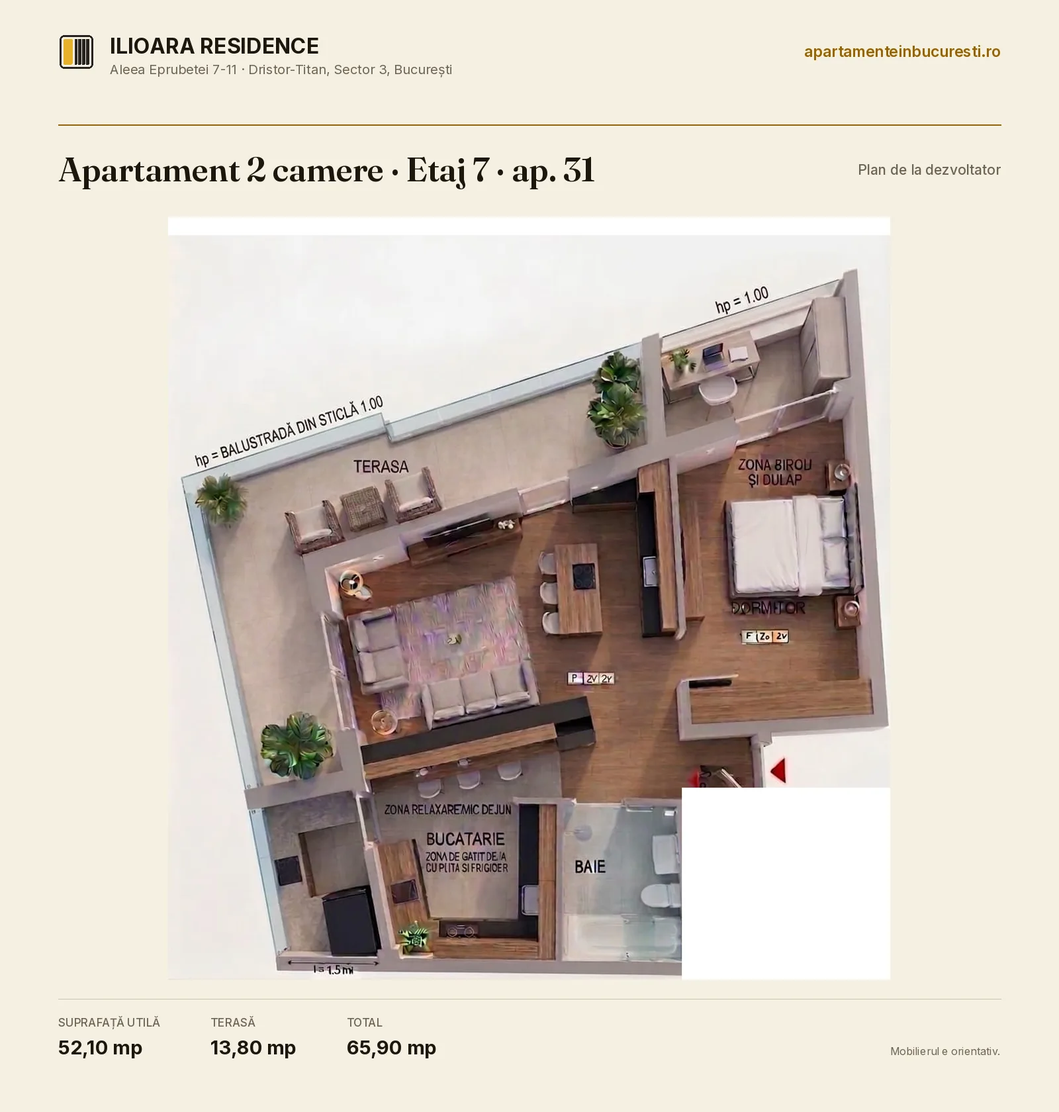
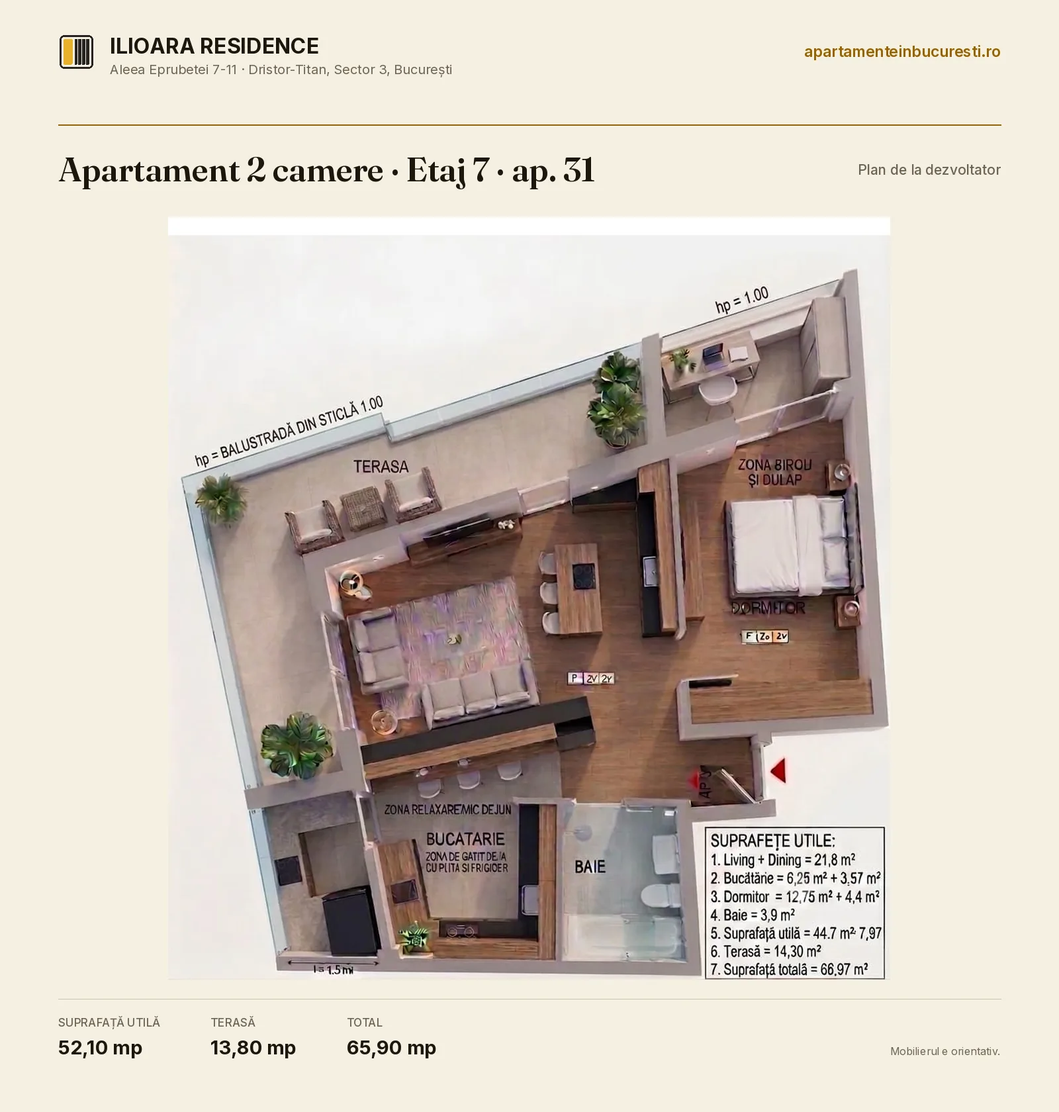
ap. 31 intreg, cu caseta dezvoltatorului lasata pe desen si diferenta explicata
Caseta lui de suprafete de pe randarea ap. 31 sta PESTE peretele baii, nu langa el.
Masurata pe grila: incepe la x 0,74 si acopera coltul din dreapta jos al desenului.
Orice masca acolo taie baia, deci ramane pe imagine.

Consecinta e o cifra vizibila care nu se potriveste: randarea scrie 66,97 mp total,
lista de preturi din iunie zice 65,90. In loc sa o ascund, o explic pe pagina, in 5 limbi:
"Randarea dezvoltatorului arata 66,97 mp total, dintr-o faza anterioara a proiectului.
Cifra pe care o vindem, 65,90 mp, e cea din lista lui de preturi din iunie 2026."

Corectate si titlurile pe ap. 28, 30, 31: aveau inca "Planul etajului 7 / apartamentul e
marcat AP.NN", de cand toate patru foloseau plansa CAD. Acum au randare proprie, deci
"Planul apartamentului". Doar ap. 29 mai sta pe plansa etajului. 15 pagini.

Claude-Session: https://claude.ai/code/session_01L1B55aKnmJNQfi41fCw1wB

Changed region(s): [[0.625, 0.681, 0.8438, 0.8976]]

diff --git a/uk/apartamente/apartament-2-camere-etaj-7-ap-31/index.html b/uk/apartamente/apartament-2-camere-etaj-7-ap-31/index.html
@@ -152,10 +152,10 @@ body.mn-open .mn-x{opacity:1;visibility:visible;transition:opacity .4s ease .15s
 </ul>
 
 
-<h2 class="rv" data-fx="slide">План сьомого поверху</h2>
+<h2 class="rv" data-fx="slide">План квартири</h2>
 <figure class="plan rv" data-fx="rise">
   <a href="/planuri/plan-ap-31-en-v2.webp" target="_blank" rel="noopener"><img src="/planuri/plan-ap-31-en-v2.webp" width="1600" height="1680" alt="План квартири 31, 2 кімнати, поверх 7, Ilioara Residence, Aleea Eprubetei 7-11" loading="lazy" decoding="async"></a>
-  <figcaption>План сьомого поверху, від забудовника. Квартиру позначено <b>AP.31</b>. Корисна площа <b>52,10 м²</b>, тераса <b>13,80 м²</b>, разом <b>65,90 м²</b>. Меблі показано умовно.<br><a class="lupa" href="/planuri/plan-ap-31-en-v2.webp" target="_blank" rel="noopener">Відкрити план у повному розмірі &rarr;</a></figcaption>
+  <figcaption>План від забудовника. Корисна площа <b>52,10 м²</b>, тераса <b>13,80 м²</b>, разом <b>65,90 м²</b>. Меблі показано умовно. Рендер забудовника показує <b>66,97 м²</b> разом, з попереднього етапу проєкту. Цифра, за якою продаємо, <b>65,90 м²</b>, узята з його переліку цін від червня 2026.<br><a class="lupa" href="/planuri/plan-ap-31-en-v2.webp" target="_blank" rel="noopener">Відкрити план у повному розмірі &rarr;</a></figcaption>
 </figure>
 <h2 class="rv" data-fx="blur">Повний перелік оздоблення — саме таким, яким квартиру передають</h2>
 <p class="pblock rv" data-fx="rise">Так виглядає квартира на момент передачі. Марки — ті, що зазначені в технічній специфікації забудовника; там, де написано «або аналогічний», це означає, що може бути поставлений рівноцінний виріб того самого класу.</p>

diff --git a/ar/apartamente/apartament-2-camere-etaj-7-ap-31/index.html b/ar/apartamente/apartament-2-camere-etaj-7-ap-31/index.html
@@ -163,10 +163,10 @@ html[dir="rtl"] .rv[data-fx="slide"]{transform:translateX(26px)}
 </ul>
 
 
-<h2 class="rv" data-fx="slide">مخطط الطابق السابع</h2>
+<h2 class="rv" data-fx="slide">مخطط الشقة</h2>
 <figure class="plan rv" data-fx="rise">
   <a href="/planuri/plan-ap-31-en-v2.webp" target="_blank" rel="noopener"><img src="/planuri/plan-ap-31-en-v2.webp" width="1600" height="1680" alt="مخطط الشقة 31، 2 غرف، الطابق 7، Ilioara Residence، Aleea Eprubetei 7-11" loading="lazy" decoding="async"></a>
-  <figcaption>مخطط الطابق السابع، من المطوّر. الشقة مُعلَّمة <b>AP.31</b>. المساحة المفيدة <b>52,10 م²</b>، الشرفة <b>13,80 م²</b>، الإجمالي <b>65,90 م²</b>. الأثاث للتوضيح فقط.<br><a class="lupa" href="/planuri/plan-ap-31-en-v2.webp" target="_blank" rel="noopener">افتح المخطط بالحجم الكامل &rarr;</a></figcaption>
+  <figcaption>مخطط من المطوّر. المساحة المفيدة <b>52,10 م²</b>، الشرفة <b>13,80 م²</b>، الإجمالي <b>65,90 م²</b>. الأثاث للتوضيح فقط. يُظهر مخطط المطوّر <b>66.97 م²</b> إجمالاً، من مرحلة سابقة من المشروع. الرقم الذي نبيع على أساسه، <b>65.90 م²</b>، مأخوذ من قائمة أسعاره لشهر يونيو 2026.<br><a class="lupa" href="/planuri/plan-ap-31-en-v2.webp" target="_blank" rel="noopener">افتح المخطط بالحجم الكامل &rarr;</a></figcaption>
 </figure>
 <h2 class="rv" data-fx="blur">قائمة التشطيبات الكاملة، تماماً كما تُسلَّم</h2>
 <p class="pblock rv" data-fx="rise">هكذا تبدو الشقة عند التسليم. العلامات التجارية هي الواردة في دفتر شروط المطوّر؛ وحيثما ورد «أو ما يماثله» فهذا يعني أنه يمكن تسليم منتج مكافئ من الفئة نفسها.</p>

diff --git a/uk/apartamente/apartament-2-camere-etaj-7-ap-28/index.html b/uk/apartamente/apartament-2-camere-etaj-7-ap-28/index.html
@@ -152,10 +152,10 @@ body.mn-open .mn-x{opacity:1;visibility:visible;transition:opacity .4s ease .15s
 </ul>
 
 
-<h2 class="rv" data-fx="slide">План сьомого поверху</h2>
+<h2 class="rv" data-fx="slide">План квартири</h2>
 <figure class="plan rv" data-fx="rise">
   <a href="/planuri/plan-ap-28-en-v2.webp" target="_blank" rel="noopener"><img src="/planuri/plan-ap-28-en-v2.webp" width="1600" height="1680" alt="План квартири 28, 2 кімнати, поверх 7, Ilioara Residence, Aleea Eprubetei 7-11" loading="lazy" decoding="async"></a>
-  <figcaption>План сьомого поверху, від забудовника. Квартиру позначено <b>AP.28</b>. Корисна площа <b>56,75 м²</b>, тераса <b>14,35 м²</b>, разом <b>71,10 м²</b>. Меблі показано умовно.<br><a class="lupa" href="/planuri/plan-ap-28-en-v2.webp" target="_blank" rel="noopener">Відкрити план у повному розмірі &rarr;</a></figcaption>
+  <figcaption>План від забудовника. Корисна площа <b>56,75 м²</b>, тераса <b>14,35 м²</b>, разом <b>71,10 м²</b>. Меблі показано умовно.<br><a class="lupa" href="/planuri/plan-ap-28-en-v2.webp" target="_blank" rel="noopener">Відкрити план у повному розмірі &rarr;</a></figcaption>
 </figure>
 <h2 class="rv" data-fx="blur">Повний перелік оздоблення — саме таким, яким квартиру передають</h2>
 <p class="pblock rv" data-fx="rise">Так виглядає квартира на момент передачі. Марки — ті, що зазначені в технічній специфікації забудовника; там, де написано «або аналогічний», це означає, що може бути поставлений рівноцінний виріб того самого класу.</p>

diff --git a/uk/apartamente/apartament-2-camere-etaj-7-ap-30/index.html b/uk/apartamente/apartament-2-camere-etaj-7-ap-30/index.html
@@ -152,10 +152,10 @@ body.mn-open .mn-x{opacity:1;visibility:visible;transition:opacity .4s ease .15s
 </ul>
 
 
-<h2 class="rv" data-fx="slide">План сьомого поверху</h2>
+<h2 class="rv" data-fx="slide">План квартири</h2>
 <figure class="plan rv" data-fx="rise">
   <a href="/planuri/plan-ap-30-en-v2.webp" target="_blank" rel="noopener"><img src="/planuri/plan-ap-30-en-v2.webp" width="1600" height="1483" alt="План квартири 30, 2 кімнати, поверх 7, Ilioara Residence, Aleea Eprubetei 7-11" loading="lazy" decoding="async"></a>
-  <figcaption>План сьомого поверху, від забудовника. Квартиру позначено <b>AP.30</b>. Корисна площа <b>59,50 м²</b>, тераса <b>7,25 м²</b>, разом <b>66,75 м²</b>. Меблі показано умовно.<br><a class="lupa" href="/planuri/plan-ap-30-en-v2.webp" target="_blank" rel="noopener">Відкрити план у повному розмірі &rarr;</a></figcaption>
+  <figcaption>План від забудовника. Корисна площа <b>59,50 м²</b>, тераса <b>7,25 м²</b>, разом <b>66,75 м²</b>. Меблі показано умовно.<br><a class="lupa" href="/planuri/plan-ap-30-en-v2.webp" target="_blank" rel="noopener">Відкрити план у повному розмірі &rarr;</a></figcaption>
 </figure>
 <h2 class="rv" data-fx="blur">Повний перелік оздоблення — саме таким, яким квартиру передають</h2>
 <p class="pblock rv" data-fx="rise">Так виглядає квартира на момент передачі. Марки — ті, що зазначені в технічній специфікації забудовника; там, де написано «або аналогічний», це означає, що може бути поставлений рівноцінний виріб того самого класу.</p>

diff --git a/he/apartamente/apartament-2-camere-etaj-7-ap-31/index.html b/he/apartamente/apartament-2-camere-etaj-7-ap-31/index.html
@@ -163,10 +163,10 @@ html[dir="rtl"] .rv[data-fx="slide"]{transform:translateX(26px)}
 </ul>
 
 
-<h2 class="rv" data-fx="slide">תוכנית הקומה השביעית</h2>
+<h2 class="rv" data-fx="slide">תוכנית הדירה</h2>
 <figure class="plan rv" data-fx="rise">
   <a href="/planuri/plan-ap-31-en-v2.webp" target="_blank" rel="noopener"><img src="/planuri/plan-ap-31-en-v2.webp" width="1600" height="1680" alt="תוכנית דירה 31, 2 חדרים, קומה 7, Ilioara Residence, Aleea Eprubetei 7-11" loading="lazy" decoding="async"></a>
-  <figcaption>תוכנית הקומה השביעית, מהיזם. הדירה מסומנת <b>AP.31</b>. שטח מועיל <b>52,10 מ״ר</b>, מרפסת <b>13,80 מ״ר</b>, סך הכול <b>65,90 מ״ר</b>. הריהוט להמחשה בלבד.<br><a class="lupa" href="/planuri/plan-ap-31-en-v2.webp" target="_blank" rel="noopener">פתחו את התוכנית בגודל מלא &rarr;</a></figcaption>
+  <figcaption>תוכנית מהיזם. שטח מועיל <b>52,10 מ״ר</b>, מרפסת <b>13,80 מ״ר</b>, סך הכול <b>65,90 מ״ר</b>. הריהוט להמחשה בלבד. הרנדר של היזם מציג <b>66.97 מ״ר</b> בסך הכול, משלב מוקדם יותר של הפרויקט. הנתון שלפיו אנחנו מוכרים, <b>65.90 מ״ר</b>, לקוח ממחירון יוני 2026 שלו.<br><a class="lupa" href="/planuri/plan-ap-31-en-v2.webp" target="_blank" rel="noopener">פתחו את התוכנית בגודל מלא &rarr;</a></figcaption>
 </figure>
 <h2 class="rv" data-fx="blur">רשימת הגימורים המלאה, בדיוק כפי שהדירה נמסרת</h2>
 <p class="pblock rv" data-fx="rise">כך נראית הדירה במסירה. המותגים הם אלה שמופיעים במפרט הטכני של היזם; היכן שכתוב “או דומה” הכוונה שאפשר לספק מוצר שווה ערך מאותה רמה.</p>

diff --git a/ar/apartamente/apartament-2-camere-etaj-7-ap-28/index.html b/ar/apartamente/apartament-2-camere-etaj-7-ap-28/index.html
@@ -163,10 +163,10 @@ html[dir="rtl"] .rv[data-fx="slide"]{transform:translateX(26px)}
 </ul>
 
 
-<h2 class="rv" data-fx="slide">مخطط الطابق السابع</h2>
+<h2 class="rv" data-fx="slide">مخطط الشقة</h2>
 <figure class="plan rv" data-fx="rise">
   <a href="/planuri/plan-ap-28-en-v2.webp" target="_blank" rel="noopener"><img src="/planuri/plan-ap-28-en-v2.webp" width="1600" height="1680" alt="مخطط الشقة 28، 2 غرف، الطابق 7، Ilioara Residence، Aleea Eprubetei 7-11" loading="lazy" decoding="async"></a>
-  <figcaption>مخطط الطابق السابع، من المطوّر. الشقة مُعلَّمة <b>AP.28</b>. المساحة المفيدة <b>56,75 م²</b>، الشرفة <b>14,35 م²</b>، الإجمالي <b>71,10 م²</b>. الأثاث للتوضيح فقط.<br><a class="lupa" href="/planuri/plan-ap-28-en-v2.webp" target="_blank" rel="noopener">افتح المخطط بالحجم الكامل &rarr;</a></figcaption>
+  <figcaption>مخطط من المطوّر. المساحة المفيدة <b>56,75 م²</b>، الشرفة <b>14,35 م²</b>، الإجمالي <b>71,10 م²</b>. الأثاث للتوضيح فقط.<br><a class="lupa" href="/planuri/plan-ap-28-en-v2.webp" target="_blank" rel="noopener">افتح المخطط بالحجم الكامل &rarr;</a></figcaption>
 </figure>
 <h2 class="rv" data-fx="blur">قائمة التشطيبات الكاملة، تماماً كما تُسلَّم</h2>
 <p class="pblock rv" data-fx="rise">هكذا تبدو الشقة عند التسليم. العلامات التجارية هي الواردة في دفتر شروط المطوّر؛ وحيثما ورد «أو ما يماثله» فهذا يعني أنه يمكن تسليم منتج مكافئ من الفئة نفسها.</p>

diff --git a/ar/apartamente/apartament-2-camere-etaj-7-ap-30/index.html b/ar/apartamente/apartament-2-camere-etaj-7-ap-30/index.html
@@ -163,10 +163,10 @@ html[dir="rtl"] .rv[data-fx="slide"]{transform:translateX(26px)}
 </ul>
 
 
-<h2 class="rv" data-fx="slide">مخطط الطابق السابع</h2>
+<h2 class="rv" data-fx="slide">مخطط الشقة</h2>
 <figure class="plan rv" data-fx="rise">
   <a href="/planuri/plan-ap-30-en-v2.webp" target="_blank" rel="noopener"><img src="/planuri/plan-ap-30-en-v2.webp" width="1600" height="1483" alt="مخطط الشقة 30، 2 غرف، الطابق 7، Ilioara Residence، Aleea Eprubetei 7-11" loading="lazy" decoding="async"></a>
-  <figcaption>مخطط الطابق السابع، من المطوّر. الشقة مُعلَّمة <b>AP.30</b>. المساحة المفيدة <b>59,50 م²</b>، الشرفة <b>7,25 م²</b>، الإجمالي <b>66,75 م²</b>. الأثاث للتوضيح فقط.<br><a class="lupa" href="/planuri/plan-ap-30-en-v2.webp" target="_blank" rel="noopener">افتح المخطط بالحجم الكامل &rarr;</a></figcaption>
+  <figcaption>مخطط من المطوّر. المساحة المفيدة <b>59,50 م²</b>، الشرفة <b>7,25 م²</b>، الإجمالي <b>66,75 م²</b>. الأثاث للتوضيح فقط.<br><a class="lupa" href="/planuri/plan-ap-30-en-v2.webp" target="_blank" rel="noopener">افتح المخطط بالحجم الكامل &rarr;</a></figcaption>
 </figure>
 <h2 class="rv" data-fx="blur">قائمة التشطيبات الكاملة، تماماً كما تُسلَّم</h2>
 <p class="pblock rv" data-fx="rise">هكذا تبدو الشقة عند التسليم. العلامات التجارية هي الواردة في دفتر شروط المطوّر؛ وحيثما ورد «أو ما يماثله» فهذا يعني أنه يمكن تسليم منتج مكافئ من الفئة نفسها.</p>

diff --git a/he/apartamente/apartament-2-camere-etaj-7-ap-28/index.html b/he/apartamente/apartament-2-camere-etaj-7-ap-28/index.html
@@ -163,10 +163,10 @@ html[dir="rtl"] .rv[data-fx="slide"]{transform:translateX(26px)}
 </ul>
 
 
-<h2 class="rv" data-fx="slide">תוכנית הקומה השביעית</h2>
+<h2 class="rv" data-fx="slide">תוכנית הדירה</h2>
 <figure class="plan rv" data-fx="rise">
   <a href="/planuri/plan-ap-28-en-v2.webp" target="_blank" rel="noopener"><img src="/planuri/plan-ap-28-en-v2.webp" width="1600" height="1680" alt="תוכנית דירה 28, 2 חדרים, קומה 7, Ilioara Residence, Aleea Eprubetei 7-11" loading="lazy" decoding="async"></a>
-  <figcaption>תוכנית הקומה השביעית, מהיזם. הדירה מסומנת <b>AP.28</b>. שטח מועיל <b>56,75 מ״ר</b>, מרפסת <b>14,35 מ״ר</b>, סך הכול <b>71,10 מ״ר</b>. הריהוט להמחשה בלבד.<br><a class="lupa" href="/planuri/plan-ap-28-en-v2.webp" target="_blank" rel="noopener">פתחו את התוכנית בגודל מלא &rarr;</a></figcaption>
+  <figcaption>תוכנית מהיזם. שטח מועיל <b>56,75 מ״ר</b>, מרפסת <b>14,35 מ״ר</b>, סך הכול <b>71,10 מ״ר</b>. הריהוט להמחשה בלבד.<br><a class="lupa" href="/planuri/plan-ap-28-en-v2.webp" target="_blank" rel="noopener">פתחו את התוכנית בגודל מלא &rarr;</a></figcaption>
 </figure>
 <h2 class="rv" data-fx="blur">רשימת הגימורים המלאה, בדיוק כפי שהדירה נמסרת</h2>
 <p class="pblock rv" data-fx="rise">כך נראית הדירה במסירה. המותגים הם אלה שמופיעים במפרט הטכני של היזם; היכן שכתוב “או דומה” הכוונה שאפשר לספק מוצר שווה ערך מאותה רמה.</p>

diff --git a/he/apartamente/apartament-2-camere-etaj-7-ap-30/index.html b/he/apartamente/apartament-2-camere-etaj-7-ap-30/index.html
@@ -163,10 +163,10 @@ html[dir="rtl"] .rv[data-fx="slide"]{transform:translateX(26px)}
 </ul>
 
 
-<h2 class="rv" data-fx="slide">תוכנית הקומה השביעית</h2>
+<h2 class="rv" data-fx="slide">תוכנית הדירה</h2>
 <figure class="plan rv" data-fx="rise">
   <a href="/planuri/plan-ap-30-en-v2.webp" target="_blank" rel="noopener"><img src="/planuri/plan-ap-30-en-v2.webp" width="1600" height="1483" alt="תוכנית דירה 30, 2 חדרים, קומה 7, Ilioara Residence, Aleea Eprubetei 7-11" loading="lazy" decoding="async"></a>
-  <figcaption>תוכנית הקומה השביעית, מהיזם. הדירה מסומנת <b>AP.30</b>. שטח מועיל <b>59,50 מ״ר</b>, מרפסת <b>7,25 מ״ר</b>, סך הכול <b>66,75 מ״ר</b>. הריהוט להמחשה בלבד.<br><a class="lupa" href="/planuri/plan-ap-30-en-v2.webp" target="_blank" rel="noopener">פתחו את התוכנית בגודל מלא &rarr;</a></figcaption>
+  <figcaption>תוכנית מהיזם. שטח מועיל <b>59,50 מ״ר</b>, מרפסת <b>7,25 מ״ר</b>, סך הכול <b>66,75 מ״ר</b>. הריהוט להמחשה בלבד.<br><a class="lupa" href="/planuri/plan-ap-30-en-v2.webp" target="_blank" rel="noopener">פתחו את התוכנית בגודל מלא &rarr;</a></figcaption>
 </figure>
 <h2 class="rv" data-fx="blur">רשימת הגימורים המלאה, בדיוק כפי שהדירה נמסרת</h2>
 <p class="pblock rv" data-fx="rise">כך נראית הדירה במסירה. המותגים הם אלה שמופיעים במפרט הטכני של היזם; היכן שכתוב “או דומה” הכוונה שאפשר לספק מוצר שווה ערך מאותה רמה.</p>

diff --git a/apartamente/apartament-2-camere-etaj-7-ap-31/index.html b/apartamente/apartament-2-camere-etaj-7-ap-31/index.html
@@ -159,10 +159,10 @@ body.mn-open .mn-x{opacity:1;visibility:visible;transition:opacity .4s ease .15s
 </ul>
 
 
-<h2 class="rv" data-fx="slide">Planul etajului 7</h2>
+<h2 class="rv" data-fx="slide">Planul apartamentului</h2>
 <figure class="plan rv" data-fx="rise">
   <a href="/planuri/plan-ap-31-ro-v2.webp" target="_blank" rel="noopener"><img src="/planuri/plan-ap-31-ro-v2.webp" width="1600" height="1680" alt="Planul apartamentului 31, 2 camere, etajul 7, Ilioara Residence, Aleea Eprubetei 7-11" loading="lazy" decoding="async"></a>
-  <figcaption>Planul etajului 7, de la dezvoltator. Apartamentul e marcat <b>AP.31</b>. Suprafață utilă <b>52,10 mp</b>, terasă <b>13,80 mp</b>, total <b>65,90 mp</b>. Mobilierul e orientativ.<br><a class="lupa" href="/planuri/plan-ap-31-ro-v2.webp" target="_blank" rel="noopener">Deschide planul la dimensiune mare &rarr;</a></figcaption>
+  <figcaption>Plan de la dezvoltator. Suprafață utilă <b>52,10 mp</b>, terasă <b>13,80 mp</b>, total <b>65,90 mp</b>. Mobilierul e orientativ. Randarea dezvoltatorului arată <b>66,97 mp</b> total, dintr-o fază anterioară a proiectului. Cifra pe care o vindem, <b>65,90 mp</b>, e cea din lista lui de prețuri din iunie 2026.<br><a class="lupa" href="/planuri/plan-ap-31-ro-v2.webp" target="_blank" rel="noopener">Deschide planul la dimensiune mare &rarr;</a></figcaption>
 </figure>
 <h2 class="rv" data-fx="blur">Lista completă de finisaje, exact cum se predă</h2>
 <p class="pblock rv" data-fx="rise">Așa arată apartamentul la predare. Mărcile sunt cele din caietul de sarcini al dezvoltatorului; unde scrie „sau similar" înseamnă că se poate livra un produs echivalent din aceeași clasă.</p>

diff --git a/en/apartamente/apartament-2-camere-etaj-7-ap-31/index.html b/en/apartamente/apartament-2-camere-etaj-7-ap-31/index.html
@@ -152,10 +152,10 @@ body.mn-open .mn-x{opacity:1;visibility:visible;transition:opacity .4s ease .15s
 </ul>
 
 
-<h2 class="rv" data-fx="slide">Seventh floor plan</h2>
+<h2 class="rv" data-fx="slide">Apartment plan</h2>
 <figure class="plan rv" data-fx="rise">
   <a href="/planuri/plan-ap-31-en-v2.webp" target="_blank" rel="noopener"><img src="/planuri/plan-ap-31-en-v2.webp" width="1600" height="1680" alt="Plan of apartment 31, 2 rooms, floor 7, Ilioara Residence, Aleea Eprubetei 7-11" loading="lazy" decoding="async"></a>
-  <figcaption>Seventh floor plan, from the developer. The apartment is marked <b>AP.31</b>. Usable area <b>52,10 sqm</b>, terrace <b>13,80 sqm</b>, total <b>65,90 sqm</b>. Furniture is indicative.<br><a class="lupa" href="/planuri/plan-ap-31-en-v2.webp" target="_blank" rel="noopener">Open the plan at full size &rarr;</a></figcaption>
+  <figcaption>Plan from the developer. Usable area <b>52,10 sqm</b>, terrace <b>13,80 sqm</b>, total <b>65,90 sqm</b>. Furniture is indicative. The developer's render shows <b>66.97 sqm</b> total, from an earlier stage of the project. The figure we sell on, <b>65.90 sqm</b>, comes from his June 2026 price list.<br><a class="lupa" href="/planuri/plan-ap-31-en-v2.webp" target="_blank" rel="noopener">Open the plan at full size &rarr;</a></figcaption>
 </figure>
 <h2 class="rv" data-fx="blur">The complete list of finishes, exactly as handed over</h2>
 <p class="pblock rv" data-fx="rise">This is how the flat looks at handover. The brands are the ones in the developer's specification; where it says "or similar", an equivalent product from the same class can be supplied.</p>

diff --git a/apartamente/apartament-2-camere-etaj-7-ap-28/index.html b/apartamente/apartament-2-camere-etaj-7-ap-28/index.html
@@ -159,10 +159,10 @@ body.mn-open .mn-x{opacity:1;visibility:visible;transition:opacity .4s ease .15s
 </ul>
 
 
-<h2 class="rv" data-fx="slide">Planul etajului 7</h2>
+<h2 class="rv" data-fx="slide">Planul apartamentului</h2>
 <figure class="plan rv" data-fx="rise">
   <a href="/planuri/plan-ap-28-ro-v2.webp" target="_blank" rel="noopener"><img src="/planuri/plan-ap-28-ro-v2.webp" width="1600" height="1680" alt="Planul apartamentului 28, 2 camere, etajul 7, Ilioara Residence, Aleea Eprubetei 7-11" loading="lazy" decoding="async"></a>
-  <figcaption>Planul etajului 7, de la dezvoltator. Apartamentul e marcat <b>AP.28</b>. Suprafață utilă <b>56,75 mp</b>, terasă <b>14,35 mp</b>, total <b>71,10 mp</b>. Mobilierul e orientativ.<br><a class="lupa" href="/planuri/plan-ap-28-ro-v2.webp" target="_blank" rel="noopener">Deschide planul la dimensiune mare &rarr;</a></figcaption>
+  <figcaption>Plan de la dezvoltator. Suprafață utilă <b>56,75 mp</b>, terasă <b>14,35 mp</b>, total <b>71,10 mp</b>. Mobilierul e orientativ.<br><a class="lupa" href="/planuri/plan-ap-28-ro-v2.webp" target="_blank" rel="noopener">Deschide planul la dimensiune mare &rarr;</a></figcaption>
 </figure>
 <h2 class="rv" data-fx="blur">Lista completă de finisaje, exact cum se predă</h2>
 <p class="pblock rv" data-fx="rise">Așa arată apartamentul la predare. Mărcile sunt cele din caietul de sarcini al dezvoltatorului; unde scrie „sau similar" înseamnă că se poate livra un produs echivalent din aceeași clasă.</p>
